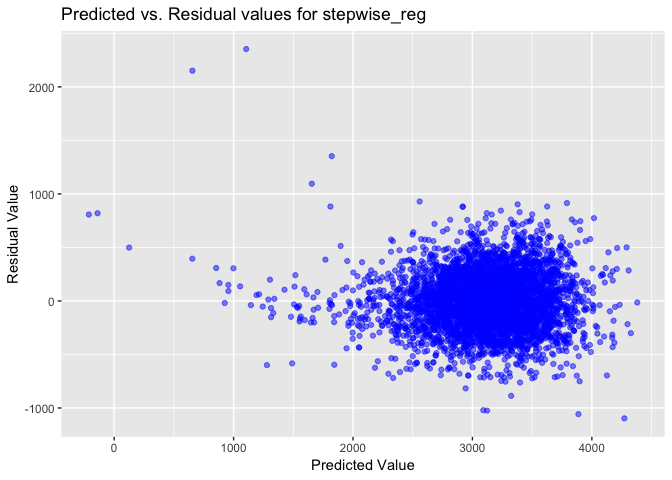
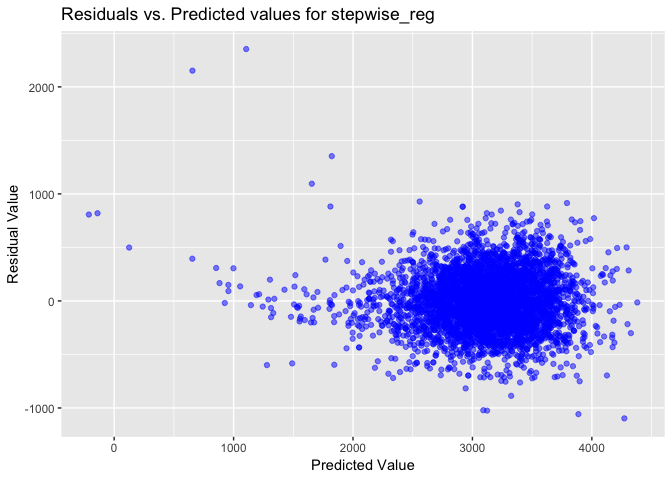
added 2 other models to compare

Changed region(s): [[0.0938, 0.0, 0.6562, 0.0625]]

diff --git a/p8105_hw6_slb2240.md b/p8105_hw6_slb2240.md
@@ -326,6 +326,7 @@ I performed a stepwise regression on the `birthweight_data`. I used the `step` f
 ``` r
 stepwise_reg = lm(bwt ~ babysex + bhead + blength + delwt + fincome + gaweeks + mheight + mrace + parity + ppwt + smoken, data = birthweight_data)
 
+## Tidied output of stepwise_reg
 stepwise_reg %>%
   summary() %>% 
   broom::tidy() %>% 
@@ -362,6 +363,7 @@ library(modelr)
     ##     bootstrap
 
 ``` r
+## Calcluate predicted and residual values
 predictors_and_residuals = birthweight_data %>% 
   add_predictions(stepwise_reg) %>% 
   add_residuals(stepwise_reg)
@@ -371,7 +373,7 @@ ggplot(predictors_and_residuals, aes(x = pred, y = resid)) +
   labs(
     x = "Predicted Value",
     y = "Residual Value",
-    title = "Predicted vs. Residual values for stepwise_reg"
+    title = "Residuals vs. Predicted values for stepwise_reg"
   )
 ```
 
@@ -381,5 +383,64 @@ Compare your model to two others:
 
 -   One using length at birth and gestational age as predictors (main effects only)
 -   One using head circumference, length, sex, and all interactions (including the three-way interaction) between these
+
+``` r
+## Model using length at birth and gestational age as predictors (main effects only)
+model_length_gaweeks = lm(bwt ~ blength + gaweeks, data = birthweight_data)
+summary(model_length_gaweeks)
+```
+
+    ## 
+    ## Call:
+    ## lm(formula = bwt ~ blength + gaweeks, data = birthweight_data)
+    ## 
+    ## Residuals:
+    ##     Min      1Q  Median      3Q     Max 
+    ## -1709.6  -215.4   -11.4   208.2  4188.8 
+    ## 
+    ## Coefficients:
+    ##              Estimate Std. Error t value Pr(>|t|)    
+    ## (Intercept) -4347.667     97.958  -44.38   <2e-16 ***
+    ## blength       128.556      1.990   64.60   <2e-16 ***
+    ## gaweeks        27.047      1.718   15.74   <2e-16 ***
+    ## ---
+    ## Signif. codes:  0 '***' 0.001 '**' 0.01 '*' 0.05 '.' 0.1 ' ' 1
+    ## 
+    ## Residual standard error: 333.2 on 4339 degrees of freedom
+    ## Multiple R-squared:  0.5769, Adjusted R-squared:  0.5767 
+    ## F-statistic:  2958 on 2 and 4339 DF,  p-value: < 2.2e-16
+
+``` r
+## Model using head circumference, length, sex, and all interactions (including the three-way interaction) between these
+model_interactions = lm(bwt ~ bhead + blength + babysex + bhead*blength + bhead*babysex + blength*babysex + bhead*blength*babysex, data = birthweight_data)
+summary(model_interactions)
+```
+
+    ## 
+    ## Call:
+    ## lm(formula = bwt ~ bhead + blength + babysex + bhead * blength + 
+    ##     bhead * babysex + blength * babysex + bhead * blength * babysex, 
+    ##     data = birthweight_data)
+    ## 
+    ## Residuals:
+    ##      Min       1Q   Median       3Q      Max 
+    ## -1132.99  -190.42   -10.33   178.63  2617.96 
+    ## 
+    ## Coefficients:
+    ##                             Estimate Std. Error t value Pr(>|t|)    
+    ## (Intercept)                -801.9487  1102.3077  -0.728 0.466948    
+    ## bhead                       -16.5975    34.0916  -0.487 0.626388    
+    ## blength                     -21.6460    23.3720  -0.926 0.354421    
+    ## babysexmale               -6374.8684  1677.7669  -3.800 0.000147 ***
+    ## bhead:blength                 3.3244     0.7126   4.666 3.17e-06 ***
+    ## bhead:babysexmale           198.3932    51.0917   3.883 0.000105 ***
+    ## blength:babysexmale         123.7729    35.1185   3.524 0.000429 ***
+    ## bhead:blength:babysexmale    -3.8781     1.0566  -3.670 0.000245 ***
+    ## ---
+    ## Signif. codes:  0 '***' 0.001 '**' 0.01 '*' 0.05 '.' 0.1 ' ' 1
+    ## 
+    ## Residual standard error: 287.7 on 4334 degrees of freedom
+    ## Multiple R-squared:  0.6849, Adjusted R-squared:  0.6844 
+    ## F-statistic:  1346 on 7 and 4334 DF,  p-value: < 2.2e-16
 
 Make this comparison in terms of the cross-validated prediction error; use crossv\_mc and functions in purrr as appropriate
